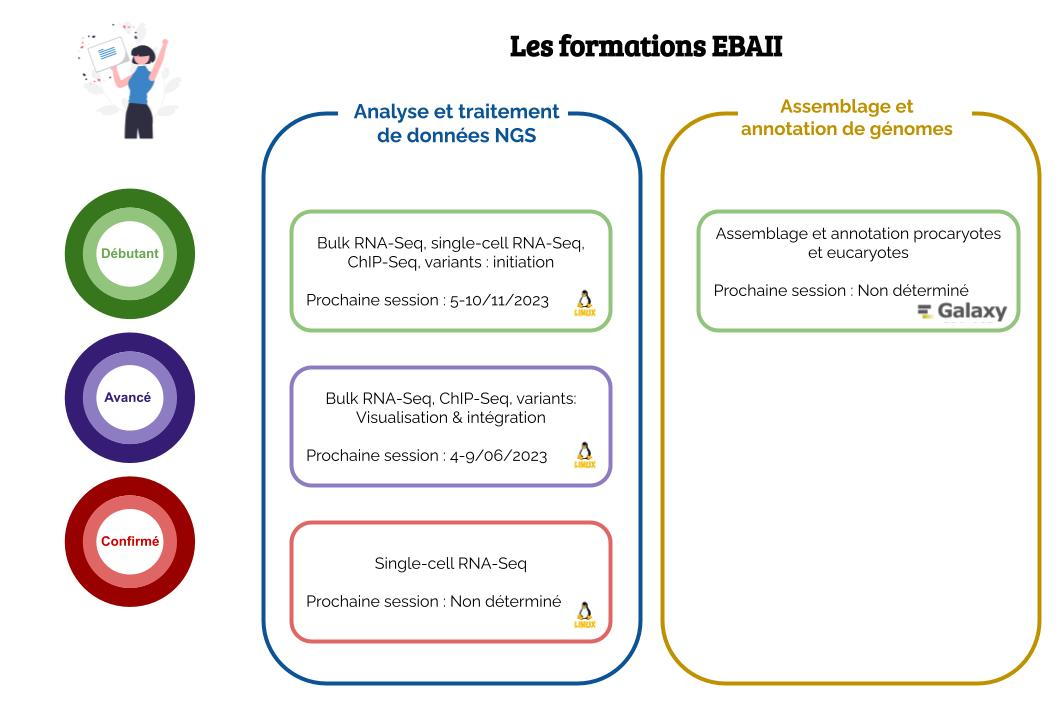
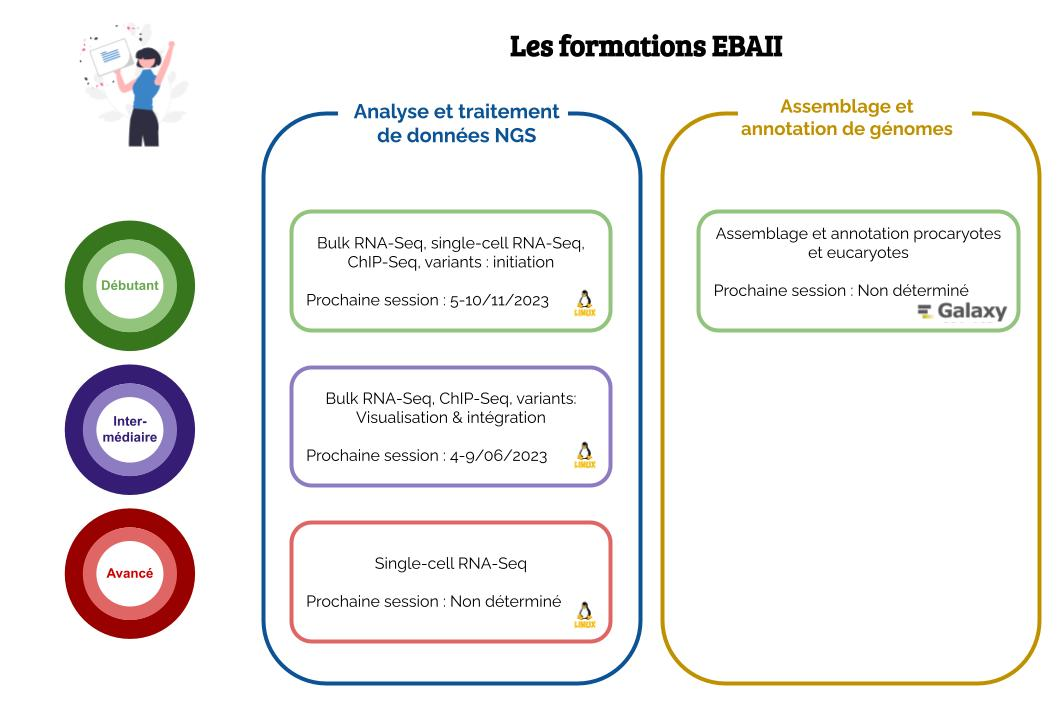
Change niveaux 1 et 2 -> débutant & intermédiaire

Changed region(s): [[0.0621, 0.2462, 0.1863, 0.8923], [0.0931, 0.0615, 0.1863, 0.2154]]

diff --git a/README.md b/README.md
@@ -32,7 +32,7 @@ Les frais de transport demeurent à la charge des participants. 
 
 Cette formation propose pour l'instant deux niveaux (débutant, et initié).
 
-#### Niveau 1
+#### Niveau débutant
 
 *Objectifs*:
 L'école s'articulera autour de quatre ateliers thématiques en session parallèle (single-cell RNA-Seq, bulk RNA-seq, ChIP-seq/ATAC-seq, variants DNA-seq).
@@ -57,7 +57,7 @@ La formation approfondira progressivement l’usage de ces environnements au fil
 Pas encore ouvert.
 
 
-#### Niveau 2
+#### Niveau intermédiaire
 
 *Objectifs*:
 L'école s'articulera autour de trois ateliers thématiques en session parallèle (RNA-seq, ChIP-seq, variants DNA-seq), et abordera la visualisation et l'intégration des données. 
@@ -66,7 +66,7 @@ L'école s'articulera autour de trois ateliers thématiques en session parallèl
 L'ensemble de la formation reposera sur l’utilisation de commandes en ligne (terminal Linux) et du langage R. 
 
 *Prérequis*:
-Les candidats doivent avoir acquis les compétences enseignées durant l'école de niveau 1: un niveau de base en ligne de commande, R, et (au choix) RNA-seq, ChIP-seq ou variants DNA-seq.
+Les candidats doivent avoir acquis les compétences enseignées durant l'école de niveau débutant: un niveau de base en ligne de commande, R, et (au choix) RNA-seq, ChIP-seq ou variants DNA-seq.
 
 *Prochaines dates*:
 4 au 9 juin 2023.
@@ -75,7 +75,7 @@ Les candidats doivent avoir acquis les compétences enseignées durant l'école 
 Pas encore ouvert.
 
 
-### Une formation "assemblage et annotation de génomes procaryotes et eucaryotes"
+### Formation "assemblage et annotation de génomes procaryotes et eucaryotes"
 
 Il n'y a pour l'instant qu'un seul niveau.
 
@@ -109,12 +109,23 @@ Pas encore ouvert.
 
 ## Matériel pédagogique
 
-- [Session 2022 niveau 1](2022/ebaiin1/README.md)
-- [Session 2022 Assemblage et annotation](2022/Assemblage/README.md)
-- [Session 2021 niveau 1](2021/ebaiin1/README.md)
-- [Session 2021 niveau 2](2021/ebaiin2/README.md)
-- [Session 2020](2020/README.md)
-- [Sessions précédentes](http://france-bioinformatique.fr/)
+### 2022
+
+- [Analyse et traitement de données NGS, niveau débutant](2022/ebaiin1/README.md)
+- [Assemblage et annotation](2022/Assemblage/README.md)
+
+### 2021
+
+- [Analyse et traitement de données NGS, niveau débutant](2021/ebaiin1/README.md)
+- [Analyse et traitement de données NGS, niveau intermédiare](2021/ebaiin2/README.md)
+
+### 2020
+
+- [Analyse et traitement de données NGS, niveau débutant](2020/README.md)
+
+### Sessions précédentes
+
+[Voir le site de l'IFB](http://france-bioinformatique.fr/)
 
 
 ## Liens
